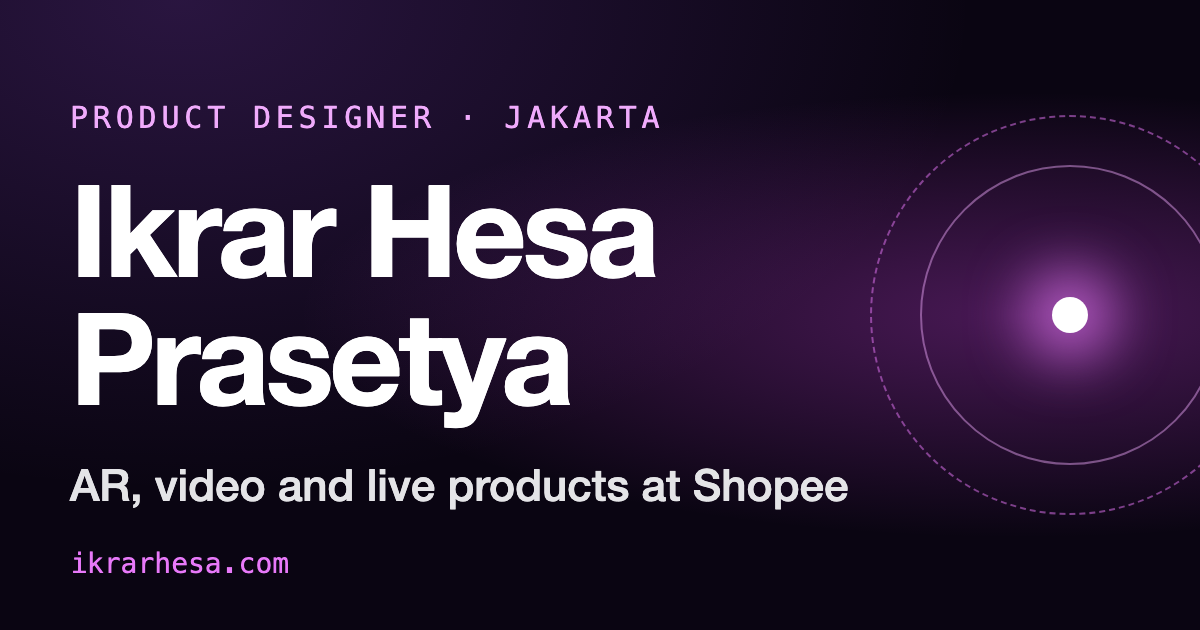
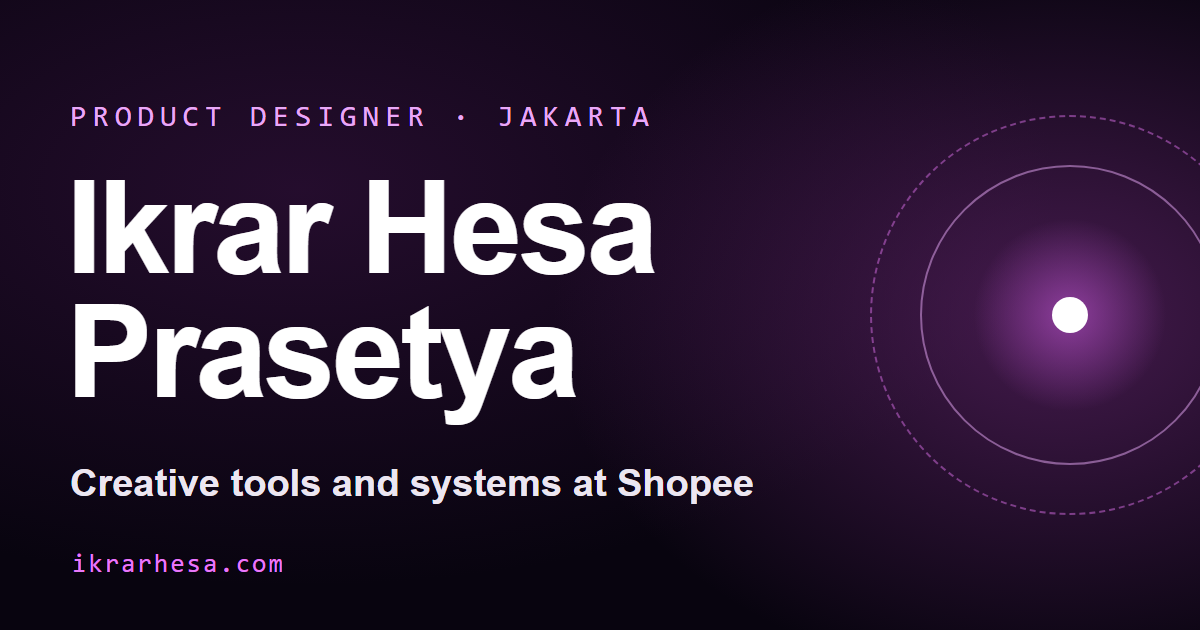
Lead with templates, fix AR framing, define 34K metric
Act on portfolio review feedback.

- Put the Shopee Video templates case study first and make it the featured
  card, since it has the clearest business outcome
- AR case study: frame it around Indonesia, state that I owned Indonesia and
  took on Malaysia in 2023, and note Malaysia data is thinner so it is not
  reported
- Templates case study: define a weekly use as a video posted with a template
  in Malaysia in that week, and say it is not total video volume
- Shorten the intro from about 3.7-4.5s to 2.6-3.2s
- Retitle to "Product Designer | Creative Tools & Systems" in the page title,
  social tags and structured data
- Rebuild og-image.png with a matching subtitle and update its alt text

diff --git a/src/constants/missions.ts b/src/constants/missions.ts
@@ -36,8 +36,33 @@ export const MISSIONS: {
   highlights: string[];
 }[] = [
     {
-      id: "video-ar",
+      id: "template",
       label: "Mission 01",
+      cardTitle: "Shopee Video templates",
+      tagline: "From 200 to 34K weekly uses in Malaysia",
+      title: "Fixing low template adoption in Malaysia: 200 to 34K weekly uses",
+      summary:
+        "Template adoption in Malaysia was low. I reused what worked in Indonesia, researched what Malaysian users like, then designed for them. Videos posted with a template each week grew from 200 to 34,000 within three months.",
+      role: "Designer · SDK, Malaysia design direction",
+      focus: "Template library, adoption, trend research",
+      surface: "Video templates · Shopee Video",
+      status: "Shipped",
+      year: "2023",
+      stack: ["Video templates", "SDK toolkit", "Trend research", "TikTok tools", "CapCut", "Competitor review", "Cross-region work"],
+      cover: [
+        { video: "/template/six-frames.mp4", poster: "/template/six-frames.jpg" },
+        { video: "/template/bento-grid.mp4", poster: "/template/bento-grid.jpg" },
+        { video: "/template/windows-like.mp4", poster: "/template/windows-like.jpg" },
+      ],
+      highlights: [
+        "Designer on the Shopee Video SDK, and the one who kept the Malaysia design direction and toolkit",
+        "Researched Malaysian trends through TikTok tools, top content, CapCut, competitors and the local marketing team",
+        "Weekly template uses grew from 200 to 34K within three months, with a single OOTD template driving around 15K",
+      ],
+    },
+    {
+      id: "video-ar",
+      label: "Mission 02",
       cardTitle: "Localizing Shopee AR effects",
       tagline: "AR effects made for Indonesian users",
       title: "Localizing Shopee's AR effects for Indonesia",
@@ -60,7 +85,7 @@ export const MISSIONS: {
         {
           title: "Context and goal",
           body: [
-            "In 2022, Shopee launched Shopee Video. The effect library at launch was mostly built by the regional team in China, so it spoke to that market and not to Indonesia or Malaysia.",
+            "In 2022, Shopee launched Shopee Video. The effect library at launch was mostly built by the regional team in China, so it spoke to that market and not to Indonesia.",
             "I joined in September 2022 as the second designer on the Video team. My title was product designer. The work was designing for the SDK, the toolkit behind effects, stickers and templates, and day to day it also included UI and UX.",
             "The goal was to help sellers make videos and live streams that hold attention, and to give buyers a reason to stop when they see one. AR effects, which Shopee calls magic, were one of the ways to do that.",
             "The effects were not only for video. In 2024 Shopee Live came to the same toolkit, and most of the effects available for video became available for live as well. Sellers who livestream use them while they sell, and they lean on them most during campaigns such as the double-date sales.",
@@ -70,7 +95,7 @@ export const MISSIONS: {
             items: [
               { when: "2022", text: "Shopee Video launches, with a library built for another market" },
               { when: "Sep 2022", text: "I join as the second designer on the team" },
-              { when: "2023", text: "Effects, stickers and templates keep shipping, and templates take off in Malaysia" },
+              { when: "2023", text: "Effects, stickers and templates keep shipping. Malaysia joins my work, and templates take off there" },
               { when: "2024", text: "Shopee Live arrives, and most video effects, such as Limited Offer, become available for livestreams too" },
               { when: "Today", text: "Still shipping, at a lower frequency. My work now leans more toward UI and UX projects" },
             ],
@@ -83,14 +108,14 @@ export const MISSIONS: {
         {
           title: "The constraints",
           body: [
-            "There were four designers, one per region, and I owned Malaysia. My designs shipped to every market, but each regional designer set their own strategy, such as how often to refresh the library and where to place effects. The team was small and had to decide and ship fast.",
-            "The Malaysia side changed often and never had one fixed owner. Before each planning round I had to find out who was responsible, bring them together and agree the plan again. The constraint was not engineering capacity. It was people and time.",
+            "There were four designers, one per region. I owned Indonesia, which is the market this case study is about, and from 2023 I owned Malaysia too. My designs shipped to every market, but each regional designer set their own strategy, such as how often to refresh the library and where to place effects. The team was small and had to decide and ship fast.",
+            "When Malaysia came in 2023, its side changed often and never had one fixed owner. Before each planning round I had to find out who was responsible, bring them together and agree the plan again. The constraint was not engineering capacity. It was people and time.",
           ],
           visual: {
             type: "team",
             count: 4,
-            mine: "Me · Malaysia",
-            note: "Four designers, one per region. The Malaysia owner kept changing.",
+            mine: "Me · Indonesia, then Malaysia",
+            note: "Four designers, one per region. I owned Indonesia, and Malaysia from 2023, where the product owner kept changing.",
           },
         },
       ],
@@ -137,7 +162,7 @@ export const MISSIONS: {
       resultsNote: [
         "Figures come from Shopee's internal dashboards, Data Studio and DataZoo, which track views, videos posted, completion rate, conversion rate, comments and likes. The numbers here are rounded, and they count videos posted using an effect. They do not capture how sellers use effects on Shopee Live.",
         "Effects are smaller than templates, because each one is used for something specific and for a short time. A new effect usually got only about 5 to 6 uses in its first two months. Across a library that is refreshed every week, those add up to hundreds of videos a week.",
-        "The same designs were pushed to every market, but each region ran its own strategy, so numbers differ by region. I report Indonesia, the region this figure comes from.",
+        "The same designs were pushed to every market, but each region ran its own strategy, so numbers differ by region. I report Indonesia, the region this figure comes from. Malaysia came later, in 2023, and its data for effects is thinner, so I don't report it here.",
       ],
       learnings: [
         "Local relevance beats polish. The effects that worked used Indonesian copy and a light touch, not heavy decoration.",
@@ -150,31 +175,6 @@ export const MISSIONS: {
         "Designed commercial effects with editable text, now live on the Shopee platform",
         "Built effects with Adobe Illustrator, After Effects and Shopee's in-house Shopee Effect tool",
         "Worked in a team of four designers, one per region, deciding and shipping fast",
-      ],
-    },
-    {
-      id: "template",
-      label: "Mission 02",
-      cardTitle: "Shopee Video templates",
-      tagline: "From 200 to 34K weekly uses in Malaysia",
-      title: "Fixing low template adoption in Malaysia: 200 to 34K weekly uses",
-      summary:
-        "Template adoption in Malaysia was low. I reused what worked in Indonesia, researched what Malaysian users like, then designed for them. Weekly uses grew from 200 to 34,000 within three months.",
-      role: "Designer · SDK, Malaysia design direction",
-      focus: "Template library, adoption, trend research",
-      surface: "Video templates · Shopee Video",
-      status: "Shipped",
-      year: "2023",
-      stack: ["Video templates", "SDK toolkit", "Trend research", "TikTok tools", "CapCut", "Competitor review", "Cross-region work"],
-      cover: [
-        { video: "/template/six-frames.mp4", poster: "/template/six-frames.jpg" },
-        { video: "/template/bento-grid.mp4", poster: "/template/bento-grid.jpg" },
-        { video: "/template/windows-like.mp4", poster: "/template/windows-like.jpg" },
-      ],
-      highlights: [
-        "Designer on the Shopee Video SDK, and the one who kept the Malaysia design direction and toolkit",
-        "Researched Malaysian trends through TikTok tools, top content, CapCut, competitors and the local marketing team",
-        "Weekly template uses grew from 200 to 34K within three months, with a single OOTD template driving around 15K",
       ],
     },
     {

diff --git a/index.html b/index.html
@@ -35,22 +35,22 @@
     <meta charset="UTF-8" />
     <link rel="icon" type="image/svg+xml" href="/favicon.svg" />
     <meta name="viewport" content="width=device-width, initial-scale=1.0" />
-    <title>Ikrar Hesa Prasetya · Product &amp; Creative Systems Designer</title>
+    <title>Ikrar Hesa Prasetya · Product Designer | Creative Tools &amp; Systems</title>
     <meta name="description" content="Designer of digital products and creative systems, currently at Shopee. Selected work, background and contact." />
     <meta name="theme-color" content="#fafafa" />
     <link rel="canonical" href="https://ikrarhesa.com/" />
 
     <meta property="og:type" content="website" />
     <meta property="og:site_name" content="Ikrar Hesa Prasetya" />
-    <meta property="og:title" content="Ikrar Hesa Prasetya · Product &amp; Creative Systems Designer" />
+    <meta property="og:title" content="Ikrar Hesa Prasetya · Product Designer | Creative Tools &amp; Systems" />
     <meta property="og:description" content="Designer of digital products and creative systems, currently at Shopee. Selected work, background and contact." />
     <meta property="og:url" content="https://ikrarhesa.com/" />
     <meta property="og:image" content="https://ikrarhesa.com/og-image.png" />
     <meta property="og:image:width" content="1200" />
     <meta property="og:image:height" content="630" />
-    <meta property="og:image:alt" content="Ikrar Hesa Prasetya, designer in Jakarta" />
+    <meta property="og:image:alt" content="Ikrar Hesa Prasetya, product designer in Jakarta, creative tools and systems at Shopee" />
     <meta name="twitter:card" content="summary_large_image" />
-    <meta name="twitter:title" content="Ikrar Hesa Prasetya · Product &amp; Creative Systems Designer" />
+    <meta name="twitter:title" content="Ikrar Hesa Prasetya · Product Designer | Creative Tools &amp; Systems" />
     <meta name="twitter:description" content="Designer of digital products and creative systems, currently at Shopee." />
     <meta name="twitter:image" content="https://ikrarhesa.com/og-image.png" />
 
@@ -59,7 +59,7 @@
         "@context": "https://schema.org",
         "@type": "Person",
         "name": "Ikrar Hesa Prasetya",
-        "jobTitle": "Product & Creative Systems Designer",
+        "jobTitle": "Product Designer",
         "url": "https://ikrarhesa.com/",
         "address": { "@type": "PostalAddress", "addressLocality": "Jakarta", "addressCountry": "ID" },
         "sameAs": ["https://www.linkedin.com/in/ikrarhesa"]

diff --git a/src/components/TemplateCaseStudy.tsx b/src/components/TemplateCaseStudy.tsx
@@ -14,7 +14,7 @@ import CountUp from "./CountUp";
  */
 
 const HEADLINE = [
-  { from: 200, to: 34000, suffix: "", label: "weekly uses of video templates in Malaysia, up from 200 when the work began" },
+  { from: 200, to: 34000, suffix: "", label: "videos posted with a template in a week in Malaysia, up from 200 when the work began" },
   { from: 0, to: 3, suffix: " months", label: "from low adoption to 34K weekly uses" },
   { from: 0, to: 15000, suffix: "", label: "weekly uses from one OOTD-themed template alone. The rest followed with thousands each" },
 ];
@@ -195,6 +195,11 @@ export default function TemplateCaseStudy({ mission }: { mission: Mission }) {
           ))}
         </dl>
         <GrowthBars />
+        <p className="mt-6 max-w-2xl text-sm leading-relaxed text-zinc-400">
+          How to read the numbers: a “weekly use” is one video posted on Shopee Video using a template, in Malaysia, in
+          that week. Sellers can post without a template too, so this counts how many videos used one, not the total
+          number of videos posted. The growth shows that more of the videos going out were made with templates.
+        </p>
       </Section>
 
       <Section title="The problem" label="Context">
@@ -204,8 +209,8 @@ export default function TemplateCaseStudy({ mission }: { mission: Mission }) {
             set its own strategy for the library.
           </p>
           <p>
-            In Malaysia the problem was adoption. The library existed, but very few people were using it: 200 uses a
-            week.
+            In Malaysia the problem was adoption. The library existed, but very few people were using it: about 200
+            videos a week were posted with a template.
           </p>
         </div>
         <p className="mt-6 border-l-2 border-fuchsia-400 pl-4 text-lg leading-snug text-zinc-100">

diff --git a/src/components/IntroLoader.tsx b/src/components/IntroLoader.tsx
@@ -17,8 +17,8 @@ import HoloSprite from "./HoloSprite";
  *  onDone:   the overlay has fully faded and can be removed
  */
 
-const MIN_MS = 3700; // the build-up, scan and greeting are in by ~2s; the rest is time to read them
-const MAX_MS = 4500; // never hold a slow connection hostage (only fonts can delay it)
+const MIN_MS = 2600; // the build-up, scan and greeting are in by ~2s; a beat to read them, then straight in
+const MAX_MS = 3200; // never hold a slow connection hostage (only fonts can delay it)
 const LEAVE_MS = 650;
 const HOLO_KEY = "hesa_intro_hologram";
 

diff --git a/src/App.tsx b/src/App.tsx
@@ -138,7 +138,7 @@ function App({ initialPath }: { initialPath?: string }) {
       document.title = `${project.title} · Ikrar Hesa Prasetya`;
       return;
     }
-    document.title = "Ikrar Hesa Prasetya · Product & Creative Systems Designer";
+    document.title = "Ikrar Hesa Prasetya · Product Designer | Creative Tools & Systems";
     const id = window.location.hash.slice(1);
     if (id) {
       requestAnimationFrame(() => document.getElementById(id)?.scrollIntoView());
